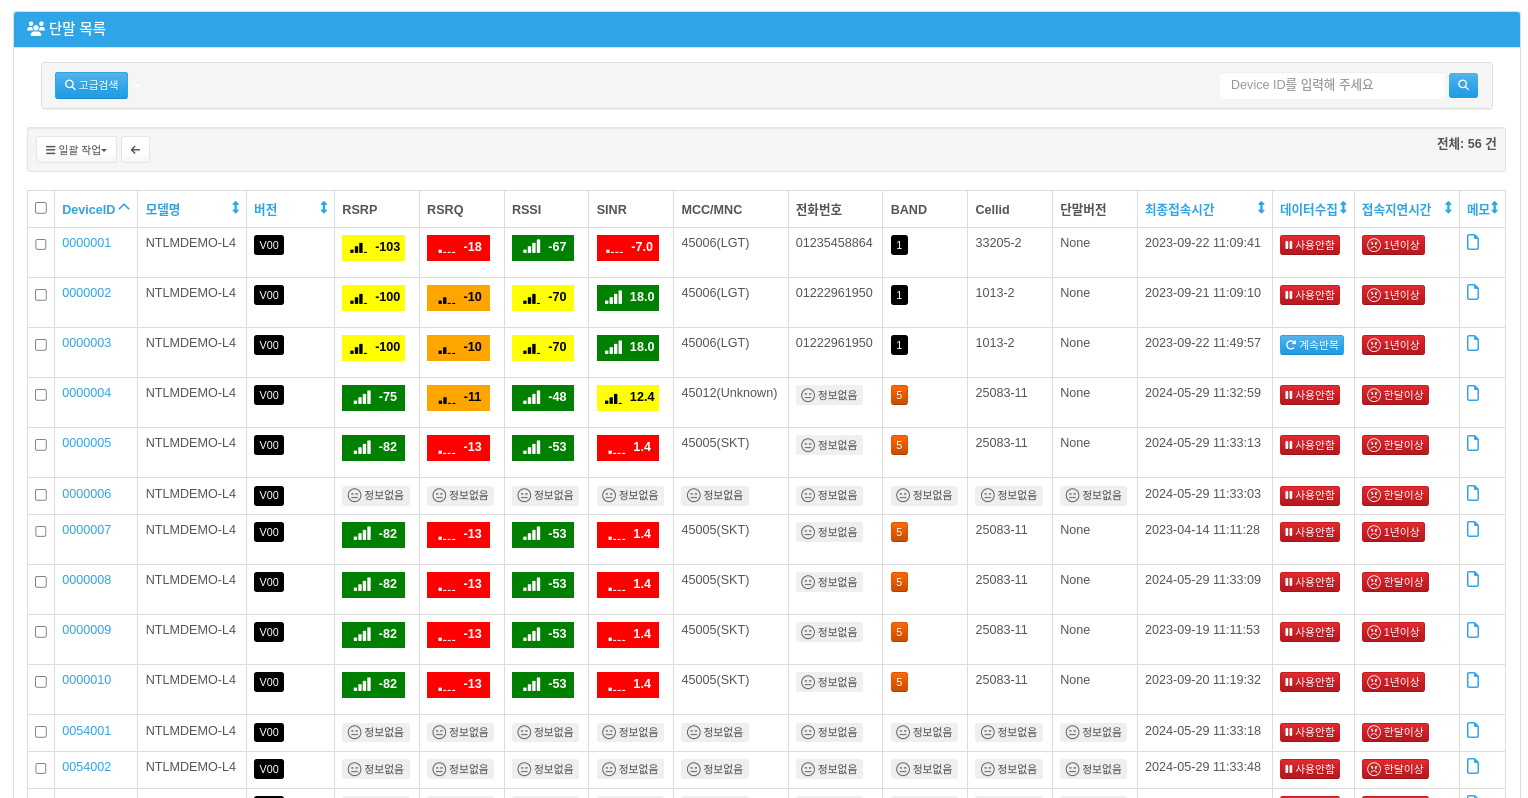
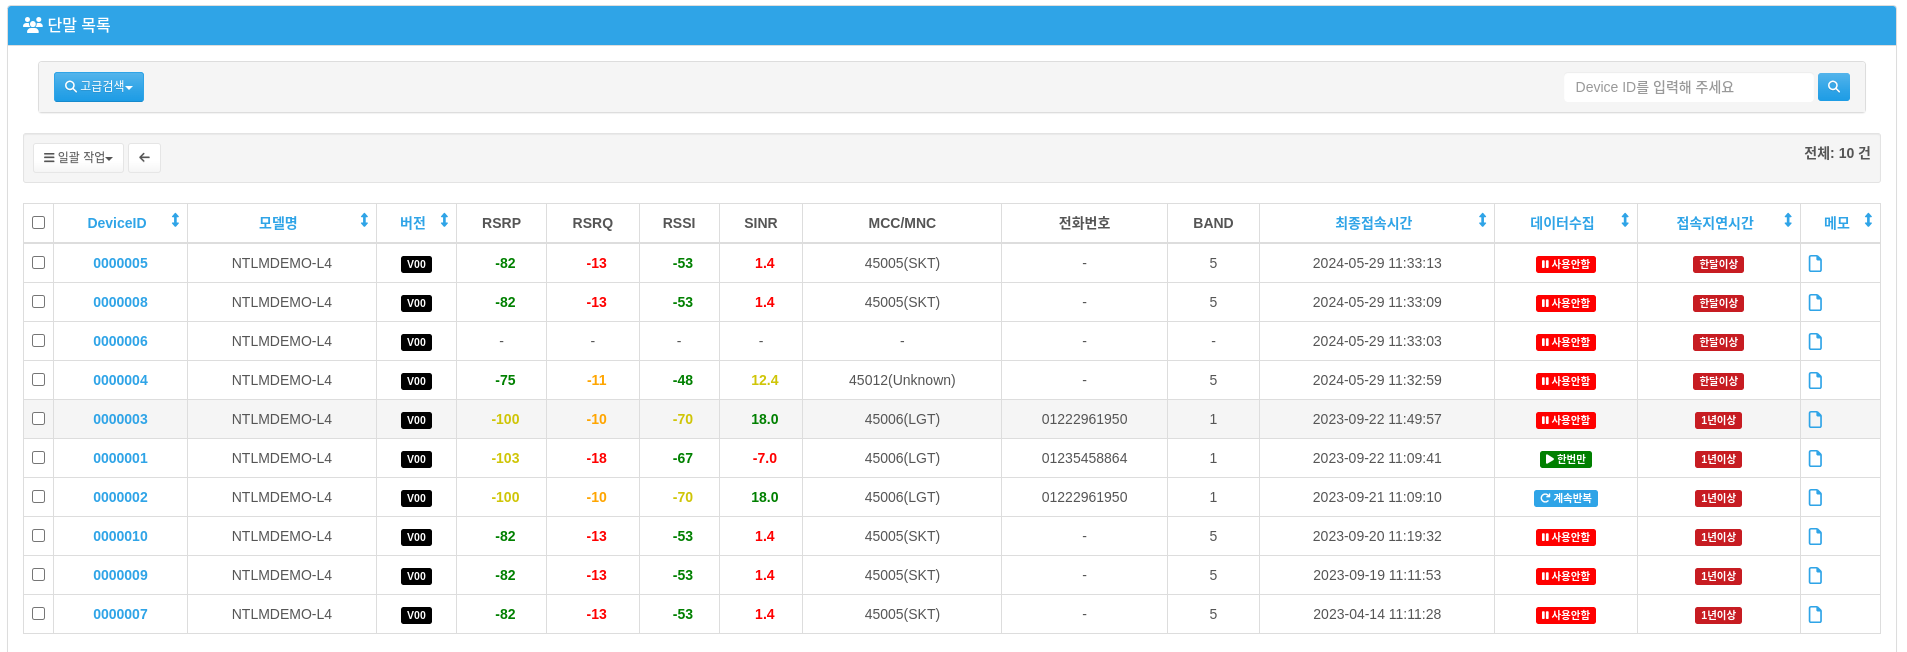
update design

Changed region(s): [[0.0, 0.0, 1.0, 1.0]]

diff --git a/source/index.rst b/source/index.rst
@@ -16,10 +16,10 @@ NTmore NMS는 자사의 디바이스를 사용하는 업체를 위한, 데이터
 
     이 문서는 |today| 에 최종적으로 생성 되었습니다.
 
-    이 문서는 2024년 11월 30일 버전 기준으로 작성 되었습니다.
+    이 문서는 2025년 02월 27일 버전 기준으로 작성 되었습니다.
 
 .. seealso::
-   최신버전은 v1.0 (2024-11-30)버전입니다.    
+   최신버전은 v1.0.1 (2025-02-27)버전입니다.
 
 Contents:
 ---------

diff --git a/source/information/release_note.rst b/source/information/release_note.rst
@@ -1,6 +1,12 @@
 릴리즈 정보
 ==================
 
+
+Version 1.0.1 (25-02-27)
+-----------------------
+
+- 디자인 수정
+
 Version 1.0 (24-11-30)
 -----------------------
 
